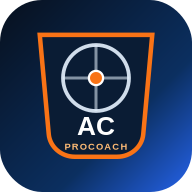
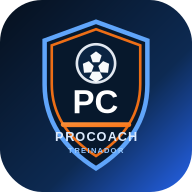
Add files via upload

Changed region(s): [[0.1875, 0.0938, 0.8125, 0.9062]]

diff --git a/atleta.html b/atleta.html
@@ -5,7 +5,7 @@
 <meta name="viewport" content="width=device-width,initial-scale=1,viewport-fit=cover">
 <meta name="theme-color" content="#08111f">
 <meta name="apple-mobile-web-app-capable" content="yes">
-<title>ProCoach Athlete 2.0.7.3 · Training Premium</title>
+<title>ProCoach Athlete 2.0.7.4 · Training Premium</title>
 <link id="manifest-link" rel="manifest" href="./athlete-manifest.webmanifest">
 <link rel="icon" href="./procoach-athlete-icon.svg" type="image/svg+xml">
 <link rel="apple-touch-icon" href="./procoach-athlete-192.png">
@@ -18,7 +18,7 @@
 <style>
 :root{--bg:#07101d;--card:#0e1b33;--card2:#112142;--line:#1d3658;--text:#f8fbff;--muted:#92a7c6;--primary:#3b82f6;--primary2:#2563eb;--ok:#10b981;--warn:#f59e0b;--danger:#ef4444;--glass:rgba(255,255,255,.04)}*{box-sizing:border-box}body{margin:0;background:radial-gradient(circle at 10% 15%,rgba(37,99,235,.20),transparent 24%),radial-gradient(circle at 88% 8%,rgba(16,185,129,.08),transparent 16%),linear-gradient(180deg,#06101d,#081425 40%,#0a1528);color:var(--text);font-family:Inter,-apple-system,BlinkMacSystemFont,"Segoe UI",sans-serif;min-height:100dvh} .app{max-width:720px;margin:auto;min-height:100dvh;padding-bottom:94px}.top{padding:calc(15px + env(safe-area-inset-top)) 18px 14px;background:rgba(7,16,29,.88);position:sticky;top:0;z-index:4;border-bottom:1px solid rgba(255,255,255,.06);backdrop-filter:blur(16px)}.brand{font-size:10px;letter-spacing:.28em;text-transform:uppercase;color:#7fb6ff;font-weight:900}.top h1{font-size:24px;margin:4px 0 1px;letter-spacing:-.02em}.muted{color:var(--muted);font-size:12px}.content{padding:14px 16px 20px}.hero{background:linear-gradient(135deg,#0c2048,#153871 65%,#2563eb);padding:18px;border-radius:24px;margin-bottom:12px;box-shadow:0 20px 42px rgba(2,8,23,.24);border:1px solid rgba(255,255,255,.07)}.hero-row{display:flex;gap:12px;align-items:center}.avatar{width:54px;height:54px;border-radius:18px;overflow:hidden;background:#17253a;display:flex;align-items:center;justify-content:center;font-weight:900;box-shadow:inset 0 1px 0 rgba(255,255,255,.06)}.avatar img{width:100%;height:100%;object-fit:cover}.grid{display:grid;grid-template-columns:repeat(2,1fr);gap:10px}.metric,.card,.today-panel,.action-list,.compact-metric{background:linear-gradient(180deg,rgba(14,27,51,.96),rgba(12,23,43,.96));border:1px solid var(--line);border-radius:22px;box-shadow:0 12px 30px rgba(2,8,23,.14)}.metric,.compact-metric{padding:14px}.metric b,.compact-metric b{font-size:24px;display:block;letter-spacing:-.02em}.label{font-size:9px;color:#8fb0dd;font-weight:900;text-transform:uppercase;letter-spacing:.12em;margin-bottom:6px}.card{padding:14px;margin-top:12px}.card h3{margin:0 0 10px;font-size:15px}.card h4{margin:0 0 7px;font-size:12px}button,.btn,input,select,textarea{font:inherit}button,.btn{border:0;border-radius:15px;min-height:46px;padding:0 14px;font-weight:900;font-size:11px;cursor:pointer;transition:transform .16s ease,box-shadow .16s ease,opacity .16s ease}.primary{background:linear-gradient(135deg,var(--primary2),var(--primary));color:white;box-shadow:0 12px 24px rgba(37,99,235,.22)}.secondary{background:#10213d;color:#dbeafe;border:1px solid #26466f}.success{background:#0f7a58;color:white}.danger{background:#4a1720;color:#fecaca;border:1px solid #71313b}button:hover,.btn:hover{transform:translateY(-1px)}.field{width:100%;min-height:49px;background:#091423;color:white;border:1px solid #29405f;border-radius:15px;padding:11px 12px;margin-top:8px;outline:none}.field:focus{border-color:#60a5fa;box-shadow:0 0 0 4px rgba(96,165,250,.14)}textarea.field{min-height:94px;resize:vertical}.scale{display:grid;grid-template-columns:repeat(6,1fr);gap:6px;margin:8px 0 13px}.scale button{min-height:44px;padding:0;background:#142237;color:#93a4bb;border:1px solid #233852}.scale button.active{background:#2563eb;color:white;border-color:#60a5fa}.video{padding:13px 0;border-top:1px solid rgba(255,255,255,.06)}.video:first-child{border-top:0}.pill{display:inline-flex;padding:6px 9px;border-radius:999px;background:#17253a;color:#a9bad0;font-size:8px;font-weight:900;text-transform:uppercase;border:1px solid rgba(255,255,255,.05)}.pill.ok{background:rgba(16,185,129,.13);color:#6ee7b7}.pill.warn{background:rgba(245,158,11,.13);color:#fbbf24}.pill.danger{background:rgba(239,68,68,.14);color:#fca5a5}.pill.sent{background:rgba(59,130,246,.12);color:#93c5fd}.pill.seen{background:rgba(148,163,184,.12);color:#cbd5e1}.pill.answer{background:rgba(16,185,129,.13);color:#6ee7b7}.row{display:flex;gap:9px;align-items:center}.grow{flex:1}.nav{position:fixed;bottom:0;left:0;right:0;max-width:720px;margin:auto;background:rgba(8,17,31,.96);border-top:1px solid rgba(255,255,255,.06);display:grid;grid-template-columns:repeat(9,1fr);padding:8px 8px calc(8px + env(safe-area-inset-bottom));z-index:5;backdrop-filter:blur(16px)}.nav button{background:transparent;color:#71849d;padding:5px 2px;min-height:55px;font-size:8px;text-transform:uppercase}.nav button.active{color:#7fb6ff}.nav .ico{font-size:17px;display:block;margin-bottom:3px}.notice{padding:12px 13px;border-radius:16px;background:#17253a;color:#b7c5d7;font-size:11px;margin-bottom:12px;border:1px solid rgba(255,255,255,.05)}.notice.error{background:#3b1720;color:#fecaca}.notice.ok{background:#0d3028;color:#a7f3d0}.notice.warn{background:#3d2f0e;color:#fde68a}.empty{text-align:center;padding:35px 15px;color:#6f8299;font-size:12px}.daily-action{margin:0 0 14px;background:linear-gradient(135deg,#0d285d,#18438c);border:1px solid rgba(147,197,253,.28);border-radius:22px;padding:16px;box-shadow:0 18px 36px rgba(37,99,235,.18)}.daily-action.done{background:linear-gradient(135deg,#0f766e,#047857)}.daily-action.alert{background:linear-gradient(135deg,#9a3412,#b45309)}.daily-action h2{font-size:18px;margin:0 0 5px}.daily-action p{font-size:11px;color:#dbeafe;margin:0 0 12px;line-height:1.45}.daily-action button{width:100%;background:white;color:#0f2f6f;min-height:48px;font-size:12px}.today-panel{padding:6px 14px;margin-bottom:10px}.today-head{display:flex;align-items:center;justify-content:space-between;padding:10px 0 6px}.today-head h2{font-size:16px;margin:0}.today-row{display:grid;grid-template-columns:42px 1fr auto;gap:10px;align-items:center;padding:12px 0;border-top:1px solid rgba(255,255,255,.06)}.today-row:first-of-type{border-top:0}.today-icon{width:40px;height:40px;border-radius:14px;background:linear-gradient(180deg,#112342,#0f1b33);display:flex;align-items:center;justify-content:center;font-size:17px;border:1px solid rgba(255,255,255,.06)}.today-main b{font-size:12px;display:block}.today-main small{display:block;color:var(--muted);font-size:9px;margin-top:2px}.status-badge{display:inline-flex;align-items:center;justify-content:center;min-height:30px;padding:0 10px;border-radius:999px;font-size:8px;font-weight:900;text-transform:uppercase;background:#17253a;color:#a9bad0;border:1px solid #29405f}.status-badge.ok{background:rgba(16,185,129,.12);color:#6ee7b7;border-color:rgba(16,185,129,.25)}.status-badge.warn{background:rgba(245,158,11,.12);color:#fbbf24;border-color:rgba(245,158,11,.25)}.status-badge.info{background:rgba(59,130,246,.12);color:#93c5fd;border-color:rgba(59,130,246,.25)}.compact-metrics{display:grid;grid-template-columns:repeat(3,1fr);gap:10px;margin:10px 0}.action-list{padding:14px;margin-top:10px}.action-card{padding:12px 0;border-top:1px solid rgba(255,255,255,.06)}.action-card:first-of-type{border-top:0}.action-title{font-weight:900;font-size:12px}.action-meta{font-size:9px;color:var(--muted);margin-top:3px}.action-note{font-size:11px;line-height:1.45;color:#c7d2e0;margin-top:7px}.action-buttons{display:flex;gap:6px;flex-wrap:wrap;margin-top:8px}.action-buttons button,.action-buttons .btn{min-height:34px;padding:0 10px;font-size:8px}.pain-list-box{max-height:236px;overflow:auto;border:1px solid #29405f;background:#091423;border-radius:15px;margin:9px 0 12px;padding:4px}.pain-option{display:flex;align-items:center;gap:10px;padding:10px 9px;border-bottom:1px solid #172840;font-size:11px;color:#cbd5e1;cursor:pointer}.pain-option:last-child{border-bottom:0}.pain-option input{width:18px;height:18px;accent-color:#2563eb;flex:none}.pain-option:has(input:checked){background:rgba(37,99,235,.11);color:#fff}.pain-summary{display:flex;align-items:center;justify-content:space-between;gap:8px;margin:8px 0 4px}.pain-summary small{color:var(--muted);font-size:9px}.pain-count{background:#17253a;border:1px solid #29405f;border-radius:999px;padding:4px 8px;font-size:8px;color:#93c5fd;font-weight:900}.install-bar{display:none;margin:12px 16px 0;padding:12px;border:1px solid #2b4364;border-radius:18px;background:rgba(15,27,45,.97);box-shadow:0 12px 32px rgba(0,0,0,.22)}.install-bar.show{display:block}.install-bar .install-row{display:flex;gap:10px;align-items:center}.install-bar .install-copy{flex:1}.install-bar b{font-size:12px}.install-bar small{display:block;color:var(--muted);font-size:9px;line-height:1.4;margin-top:2px}.install-bar button{min-height:42px;padding:0 12px}.install-help{display:none;margin-top:9px;padding-top:9px;border-top:1px solid rgba(255,255,255,.06);font-size:10px;color:#cbd5e1;line-height:1.45}.install-help.show{display:block}.divider{height:1px;background:rgba(255,255,255,.06);margin:12px 0}.mini-actions{display:flex;gap:7px;flex-wrap:wrap}.mini-actions button{min-height:36px;padding:0 10px;font-size:9px}.section-title{font-size:11px;font-weight:900;margin:14px 0 5px;color:#dbeafe}.status-line{font-size:10px;color:#cbd5e1;line-height:1.45}.notification-button{width:100%;margin-top:8px}.availability{display:grid;grid-template-columns:repeat(2,1fr);gap:6px;margin:8px 0 12px}.availability button{background:#142237;color:#a8b8ca;border:1px solid #263b56;min-height:42px;padding:5px}.availability button.active{background:#0f766e;color:#fff;border-color:#34d399}.week-toolbar{display:flex;align-items:center;justify-content:space-between;gap:10px;margin-bottom:10px}.week-list{display:flex;flex-direction:column;gap:10px}.week-day,.week-item{background:linear-gradient(180deg,rgba(14,27,51,.96),rgba(12,23,43,.96));border:1px solid var(--line);border-radius:20px;box-shadow:0 12px 30px rgba(2,8,23,.14)}.week-day{padding:14px}.week-day.today{border-color:#3563a6;box-shadow:0 0 0 1px rgba(59,130,246,.15),0 14px 34px rgba(2,8,23,.18)}.week-date{display:flex;align-items:center;justify-content:space-between;gap:10px;margin-bottom:10px}.week-date b{font-size:13px}.week-date span{font-size:9px;color:var(--muted)}.week-item{padding:12px;margin-top:8px}.week-item-title{font-size:12px;font-weight:900}.week-item-meta{font-size:9px;color:var(--muted);margin-top:4px}.week-empty{padding:18px 8px;text-align:center;color:#6f8299;font-size:11px}.priority-badge{display:inline-flex;padding:5px 8px;border-radius:999px;font-size:8px;font-weight:900;text-transform:uppercase;border:1px solid rgba(255,255,255,.06)}.priority-badge.normal{background:rgba(59,130,246,.12);color:#93c5fd}.priority-badge.important{background:rgba(245,158,11,.12);color:#fbbf24}.priority-badge.required{background:rgba(239,68,68,.12);color:#fca5a5}.confirm-grid{display:grid;grid-template-columns:1fr;gap:7px;margin-top:8px}.overdue-card{box-shadow:0 0 0 1px rgba(245,158,11,.2),0 12px 30px rgba(2,8,23,.14)}@media(min-width:540px){.grid.three{grid-template-columns:repeat(3,1fr)}.confirm-grid{grid-template-columns:repeat(3,1fr)}}@media(max-width:560px){.top h1{font-size:21px}.grid,.compact-metrics{grid-template-columns:1fr 1fr}.nav{grid-template-columns:repeat(5,1fr);overflow-x:auto;white-space:nowrap}.nav button{min-width:68px}.today-row{grid-template-columns:38px 1fr}.today-row .status-badge{grid-column:2;justify-self:start;margin-top:4px}}
 
-/* ProCoach Athlete 2.0.7.3 Stable Access + Match Day — token athletePortal / procoachoficial */
+/* ProCoach Athlete 2.0.7.4 Stable Access + Match Day — token athletePortal / procoachoficial */
 /* ProCoach Athlete V6.5 Premium */
 .ath-home-kicker{font-size:9px;letter-spacing:.18em;text-transform:uppercase;color:#60a5fa;font-weight:900;margin:2px 0 10px}.ath-quick-grid{display:grid;grid-template-columns:repeat(2,1fr);gap:9px;margin:10px 0}.ath-quick-card{min-height:82px;padding:13px;border-radius:18px;background:linear-gradient(135deg,#0d1d37,#11294f);border:1px solid #24456e;display:flex;flex-direction:column;justify-content:space-between;box-shadow:0 12px 28px rgba(2,8,23,.16)}.ath-quick-card b{font-size:18px}.ath-quick-card small{font-size:8px;color:#8fa5c6;text-transform:uppercase;font-weight:900;letter-spacing:.08em}.ath-quick-card.green{border-color:#0f9f78}.ath-quick-card.blue{border-color:#2f80ed}.ath-quick-card.orange{border-color:#e86811}.ath-quick-card.cyan{border-color:#0899b2}.nav{scrollbar-width:none}.nav::-webkit-scrollbar{display:none}.nav button{border-radius:12px}.nav button.active{background:rgba(59,130,246,.10)}.card,.today-panel,.action-list,.week-day,.week-item{transition:transform .16s ease,box-shadow .16s ease}.card:hover,.week-day:hover{transform:translateY(-1px);box-shadow:0 17px 36px rgba(2,8,23,.20)}
 @media(max-width:560px){.ath-quick-grid{grid-template-columns:repeat(2,1fr)}.ath-quick-card{min-height:74px;padding:11px}.ath-quick-card b{font-size:16px}}
@@ -49,7 +49,7 @@
 </style>
 
 </head>
-<body><div class="app"><header class="top"><div class="brand">ProCoach Athlete 2.0.7.3</div><h1 id="title">Seu desempenho, em um só lugar</h1><div class="muted" id="subtitle">Conectando ao seu perfil…</div></header><main class="content" id="content"></main><nav class="nav" id="nav"></nav></div>
+<body><div class="app"><header class="top"><div class="brand">ProCoach Athlete 2.0.7.4</div><h1 id="title">Seu desempenho, em um só lugar</h1><div class="muted" id="subtitle">Conectando ao seu perfil…</div></header><main class="content" id="content"></main><nav class="nav" id="nav"></nav></div>
 <script>
 const firebaseConfig={apiKey:"AIzaSyBURvWmrRe-q-l1h2XKaQepeRQoNcmi7nk",authDomain:"procoachoficial.firebaseapp.com",projectId:"procoachoficial",storageBucket:"procoachoficial.firebasestorage.app",messagingSenderId:"128403842399",appId:"1:128403842399:web:c54259e2b6a5622fb942ea"};
 try{if(!firebase.apps.length)firebase.initializeApp(firebaseConfig)}catch(e){};
@@ -143,6 +143,6 @@ if(tab==='docs'){const f=$('enable-fcm'),i=$('install-app-settings');if(f)f.oncl
 if(tab==='video'){document.querySelectorAll('.open-video').forEach(b=>b.onclick=()=>{const id=b.dataset.id,url=b.dataset.url,prev=obj(responses().video)[id]||{};const next={...responses(),video:{...obj(responses().video),[id]:{...prev,status:prev.status&&prev.status!=='Enviado'?prev.status:'Visto',at:new Date().toISOString()}}};patchResponses(next);if(url)window.open(url,'_blank','noopener')});document.querySelectorAll('.video-understood').forEach(b=>b.onclick=()=>{const id=b.dataset.id;const next={...responses(),video:{...obj(responses().video),[id]:{...obj(responses().video)[id],status:'Entendido',reaction:'Entendi',at:new Date().toISOString()}}};patchResponses(next)});document.querySelectorAll('.video-doubt').forEach(b=>b.onclick=()=>{const id=b.dataset.id;const next={...responses(),video:{...obj(responses().video),[id]:{...obj(responses().video)[id],status:'Dúvida',reaction:'Tenho dúvida',at:new Date().toISOString()}}};patchResponses(next)});document.querySelectorAll('.save-video').forEach(b=>b.onclick=()=>{const id=b.dataset.id,feedback=document.querySelector(`.video-feedback[data-id="${id}"]`)?.value||'';const previous=obj(responses().video)[id]||{};const next={...responses(),video:{...obj(responses().video),[id]:{...previous,status:'Respondido',feedback,at:new Date().toISOString()}}};patchResponses(next)})}}
 function accessError(error){const code=String(error?.code||'');if(!navigator.onLine)return'Sem conexão. Reconecte-se à internet ou abra um perfil já ativado neste aparelho.';if(code.includes('operation-not-allowed'))return'O acesso de atletas ainda não foi habilitado pela comissão.';if(code.includes('permission-denied'))return'O perfil existe, mas a permissão de acesso precisa ser liberada pela comissão.';if(code.includes('unavailable'))return'O servidor está temporariamente indisponível. Tente novamente em alguns instantes.';return'Não foi possível validar este código. Confirme se o perfil foi publicado novamente pela comissão.'}
 async function start(){if(!token){status='activation';render();return}if(liveSubscription){liveSubscription();liveSubscription=null}const cached=loadCache();if(cached?.active!==false){data=cached;status='ready';render()}try{if(!db)throw new Error('Banco de dados indisponível');if(auth&&!auth.currentUser)await auth.signInAnonymously();liveSubscription=db.collection('athletePortal').doc(token).onSnapshot(doc=>{if(!doc.exists||doc.data()?.active===false){if(!data){errorReason='Este código não está ativo. No ProCoach, publique novamente o perfil deste atleta.';status='error';render()}return}data={...doc.data(),responses:doc.data().responses||data?.responses||{}};errorReason='';status='ready';saveCache();render();setTimeout(()=>maybeNotify(false),400)},error=>{if(!data){errorReason=accessError(error);status='error';render()}})}catch(error){if(!data){errorReason=accessError(error);status='error';render()}}}
-try{const startUrl=token?'./atleta.html?token='+encodeURIComponent(token):'./atleta.html';const manifest={name:'ProCoach Athlete 2.0.7.3',short_name:'ProCoach Athlete',start_url:startUrl,scope:'./',display:'standalone',background_color:'#07101d',theme_color:'#07101d',icons:[{src:'./procoach-athlete-icon.svg',sizes:'any',type:'image/svg+xml'},{src:'./procoach-athlete-192.png',sizes:'192x192',type:'image/png'},{src:'./procoach-athlete-512.png',sizes:'512x512',type:'image/png'}]};const blob=new Blob([JSON.stringify(manifest)],{type:'application/manifest+json'});$('manifest-link').href=URL.createObjectURL(blob)}catch(e){}
-if('serviceWorker'in navigator&&location.protocol.startsWith('http'))navigator.serviceWorker.register('./service-worker.js?v=2073',{updateViaCache:'none'}).then(reg=>reg.update()).catch(()=>{});window.addEventListener('beforeinstallprompt',e=>{e.preventDefault();installPrompt=e;updateInstallUI()});window.addEventListener('appinstalled',()=>{installPrompt=null;updateInstallUI();notice('ProCoach Athlete instalado na Tela Inicial.','ok')});window.addEventListener('online',()=>render());window.addEventListener('offline',()=>render());document.addEventListener('DOMContentLoaded',()=>updateInstallUI());start();
+try{const startUrl=token?'./atleta.html?token='+encodeURIComponent(token):'./atleta.html';const manifest={name:'ProCoach Athlete 2.0.7.4',short_name:'ProCoach Athlete',start_url:startUrl,scope:'./',display:'standalone',background_color:'#07101d',theme_color:'#07101d',icons:[{src:'./procoach-athlete-icon.svg',sizes:'any',type:'image/svg+xml'},{src:'./procoach-athlete-192.png',sizes:'192x192',type:'image/png'},{src:'./procoach-athlete-512.png',sizes:'512x512',type:'image/png'}]};const blob=new Blob([JSON.stringify(manifest)],{type:'application/manifest+json'});$('manifest-link').href=URL.createObjectURL(blob)}catch(e){}
+if('serviceWorker'in navigator&&location.protocol.startsWith('http'))navigator.serviceWorker.register('./service-worker.js?v=2074',{updateViaCache:'none'}).then(reg=>reg.update()).catch(()=>{});window.addEventListener('beforeinstallprompt',e=>{e.preventDefault();installPrompt=e;updateInstallUI()});window.addEventListener('appinstalled',()=>{installPrompt=null;updateInstallUI();notice('ProCoach Athlete instalado na Tela Inicial.','ok')});window.addEventListener('online',()=>render());window.addEventListener('offline',()=>render());document.addEventListener('DOMContentLoaded',()=>updateInstallUI());start();
 </script></body></html>

diff --git a/auxiliar.html b/auxiliar.html
@@ -9,7 +9,7 @@
 <link rel="manifest" href="./assistant-manifest.webmanifest">
 <link rel="icon" href="./procoach-assistant-icon.svg" type="image/svg+xml">
 <link rel="apple-touch-icon" href="./procoach-assistant-192.png">
-<title>ProCoach Auxiliar 2.0.7.3</title>
+<title>ProCoach Auxiliar 2.0.7.4</title>
 <script src="https://www.gstatic.com/firebasejs/10.8.1/firebase-app-compat.js"></script>
 <script src="https://www.gstatic.com/firebasejs/10.8.1/firebase-auth-compat.js"></script>
 <script src="https://www.gstatic.com/firebasejs/10.8.1/firebase-firestore-compat.js"></script>
@@ -34,14 +34,19 @@ const PC_ACTIVE_TEAM_KEY='procoach_active_team_v6',PC_TEAM_REGISTRY_KEY='pc_mult
 const PC_GLOBAL_KEYS=new Set([PC_TEAM_REGISTRY_KEY,'pc_dark_mode','pc_club_movements_v61','pc_club_season_archives_v61','pc_club_access_v61']);
 const $=id=>document.getElementById(id),today=()=>new Date().toISOString().slice(0,10),ensureArray=v=>Array.isArray(v)?v:(v&&typeof v==='object'?Object.values(v):[]),parse=(raw,fallback)=>{try{return raw?JSON.parse(raw):fallback}catch(e){return fallback}};
 let activeTab='home',installPrompt=null,cloudBusy=false;
+const AUX_PENDING_KEY='procoach_aux_pending_sync_v2074';
+const pendingQueue=()=>parse(localStorage.getItem(AUX_PENDING_KEY),[])||[];
+const savePending=q=>localStorage.setItem(AUX_PENDING_KEY,JSON.stringify(q));
+function queueSync(pk,value){const q=pendingQueue().filter(x=>x.pk!==pk);q.push({pk,value,at:new Date().toISOString()});savePending(q);setSync('pending');}
+async function flushPending(){if(!auth.currentUser||!navigator.onLine)return false;const q=pendingQueue();if(!q.length)return true;setSync('syncing');try{for(const item of q){await db.collection('coachData').doc(auth.currentUser.uid).set({[item.pk]:item.value,lastUpdated:firebase.firestore.FieldValue.serverTimestamp()},{merge:true});}savePending([]);setSync('ok');return true}catch(e){setSync('pending');return false}}
 const activeTeamId=()=>localStorage.getItem(PC_ACTIVE_TEAM_KEY)||'team-main';
 const physicalKey=(key,teamId=activeTeamId())=>(!String(key).startsWith('pc_')||PC_GLOBAL_KEYS.has(key)||teamId==='team-main')?key:`pc_team_${teamId}__${key}`;
 const read=(key,fallback)=>parse(localStorage.getItem(physicalKey(key)),fallback);
 const notify=(text)=>{const d=document.createElement('div');d.className='toast';d.textContent=text;document.body.appendChild(d);setTimeout(()=>d.remove(),1800)};
 const fmt=d=>{if(!d)return'—';const p=String(d).split('-');return p.length===3?`${p[2]}/${p[1]}`:d};
-async function write(key,value){const pk=physicalKey(key);localStorage.setItem(pk,JSON.stringify(value));if(auth.currentUser&&navigator.onLine){await db.collection('coachData').doc(auth.currentUser.uid).set({[pk]:JSON.stringify(value),lastUpdated:firebase.firestore.FieldValue.serverTimestamp()},{merge:true});}render();}
-async function cloudLoad(){if(!auth.currentUser||cloudBusy)return;cloudBusy=true;setSync('syncing');try{const doc=await db.collection('coachData').doc(auth.currentUser.uid).get();if(doc.exists){const data=doc.data();Object.keys(data).forEach(k=>{if(k.startsWith('pc_'))localStorage.setItem(k,typeof data[k]==='string'?data[k]:JSON.stringify(data[k]))});}setSync('ok');renderTeamSelect();render();}catch(e){setSync('off');}finally{cloudBusy=false}}
-function setSync(state){const b=$('syncBadge');if(!b)return;b.classList.toggle('off',state!=='ok');b.textContent=state==='syncing'?'↻ SINCRONIZANDO':state==='ok'?'● SINCRONIZADO':'● MODO LOCAL';}
+async function write(key,value){const pk=physicalKey(key),raw=JSON.stringify(value);localStorage.setItem(pk,raw);if(auth.currentUser&&navigator.onLine){try{await db.collection('coachData').doc(auth.currentUser.uid).set({[pk]:raw,lastUpdated:firebase.firestore.FieldValue.serverTimestamp()},{merge:true});const q=pendingQueue().filter(x=>x.pk!==pk);savePending(q);setSync(q.length?'pending':'ok')}catch(e){queueSync(pk,raw)}}else{queueSync(pk,raw)}render();}
+async function cloudLoad(){if(!auth.currentUser||cloudBusy)return;cloudBusy=true;setSync('syncing');try{await flushPending();const doc=await db.collection('coachData').doc(auth.currentUser.uid).get();if(doc.exists){const data=doc.data();Object.keys(data).forEach(k=>{if(k.startsWith('pc_'))localStorage.setItem(k,typeof data[k]==='string'?data[k]:JSON.stringify(data[k]))});}setSync(pendingQueue().length?'pending':'ok');renderTeamSelect();render();}catch(e){setSync(navigator.onLine?'pending':'off');}finally{cloudBusy=false}}
+function setSync(state){const b=$('syncBadge');if(!b)return;const n=pendingQueue().length;b.classList.toggle('off',state!=='ok');b.textContent=state==='syncing'?'↻ SINCRONIZANDO':state==='ok'?'● SINCRONIZADO':state==='pending'?`● ${n||1} PENDENTE(S)`:'● MODO LOCAL';}
 function registry(){return read(PC_TEAM_REGISTRY_KEY,{teams:[{id:'team-main',name:'Equipe Principal',category:'Principal'}]})}
 function team(){return ensureArray(registry().teams).find(t=>t.id===activeTeamId())||{id:'team-main',name:read('pc_team_name','Equipe Principal'),category:'Principal'}}
 function teamName(){return read('pc_team_name',team().name||'Equipe Principal')}
@@ -66,15 +71,15 @@ function teamScreen(){const rec=currentSession(),att=rec.attendance||{};return`<
 function matchCard(){const m=nextMatch();if(!m||(!m.date&&!m.opponent))return'';return`<section class="card"><div class="cardtitle"><h2>Próximo jogo</h2><span class="tag">MATCH DAY</span></div><div class="match"><span>${fmt(m.date||today())} · ${esc(m.time||'')}</span><b>${esc(teamName())} × ${esc(m.opponent||'Adversário')}</b><div class="muted">${esc(m.location||m.venue||'Local a definir')} ${m.system?`· Sistema ${esc(m.system)}`:''}</div></div></section>`}
 function matchScreen(){const m=nextMatch(),callups=ensureArray(read('pc_callups_v1',[])).filter(x=>x.date===m.date||x.date===today());return`<section class="card"><div class="cardtitle"><div><div class="eyebrow">JOGO & LOGÍSTICA</div><h2>${m.opponent?esc(m.opponent):'Sem jogo programado'}</h2></div><span class="tag">${callups.length?callups.length+' convocação(ões)':'GAME CENTER'}</span></div>${matchCard()||'<div class="empty">Nenhum jogo encontrado.</div>'}</section>`}
 function recordScreen(){const r=currentSession(),c=r.assistantChecklist||{};return`<section class="card"><div class="cardtitle"><div><div class="eyebrow">REGISTRO DO AUXILIAR</div><h2>Checklist e observações</h2></div><span class="tag">SYNC</span></div><div class="checkgrid"><label class="checkitem"><input id="cMaterials" type="checkbox" ${c.materials?'checked':''}> Materiais separados</label><label class="checkitem"><input id="cField" type="checkbox" ${c.field?'checked':''}> Campo preparado</label><label class="checkitem"><input id="cEquipment" type="checkbox" ${c.equipment?'checked':''}> Equipamentos OK</label><label class="checkitem"><input id="cVideo" type="checkbox" ${c.video?'checked':''}> Vídeo / tablet OK</label><label class="checkitem"><input id="cMeeting" type="checkbox" ${c.meeting?'checked':''}> Reunião alinhada</label></div><textarea id="assistantNote" class="field note" placeholder="Observações do auxiliar: campo, clima, material, comportamento, ajustes da sessão...">${esc(r.assistantNote||'')}</textarea><button class="save" onclick="saveRecord()">SALVAR E SINCRONIZAR</button><div class="muted" style="margin-top:8px">Esta nota também aparece na ficha de treino do ProCoach principal após a sincronização.</div></section>`}
-function render(){if($('appView').classList.contains('hidden'))return;const map={home,training,team:teamScreen,match:matchScreen,record:recordScreen};$('screen').innerHTML=(map[activeTab]||home)();document.querySelectorAll('#nav button').forEach(b=>b.classList.toggle('active',b.dataset.tab===activeTab));setSync(navigator.onLine?'ok':'off')}
+function render(){if($('appView').classList.contains('hidden'))return;const map={home,training,team:teamScreen,match:matchScreen,record:recordScreen};$('screen').innerHTML=(map[activeTab]||home)();document.querySelectorAll('#nav button').forEach(b=>b.classList.toggle('active',b.dataset.tab===activeTab));setSync(!navigator.onLine?'off':pendingQueue().length?'pending':'ok')}
 $('nav').addEventListener('click',e=>{const b=e.target.closest('button[data-tab]');if(!b)return;activeTab=b.dataset.tab;render()});
 $('teamSelect').addEventListener('change',e=>{localStorage.setItem(PC_ACTIVE_TEAM_KEY,e.target.value);render()});
 $('refreshBtn').onclick=cloudLoad;$('logoutBtn').onclick=()=>auth.signOut();
 $('loginBtn').onclick=async()=>{const email=$('email').value.trim(),pass=$('password').value;$('authErr').textContent='';try{await auth.signInWithEmailAndPassword(email,pass)}catch(e){$('authErr').textContent='Não foi possível entrar. Confira e-mail e senha.'}};
-window.addEventListener('online',()=>{setSync('syncing');cloudLoad()});window.addEventListener('offline',()=>setSync('off'));
+window.addEventListener('online',async()=>{setSync('syncing');await flushPending();cloudLoad()});window.addEventListener('offline',()=>setSync('off'));
 auth.onAuthStateChanged(async user=>{if(user){$('authView').classList.add('hidden');$('appView').classList.remove('hidden');await cloudLoad();renderTeamSelect();render()}else{$('appView').classList.add('hidden');$('authView').classList.remove('hidden')}});
 window.addEventListener('beforeinstallprompt',e=>{e.preventDefault();installPrompt=e;$('installAuth').classList.add('show')});$('installAuth').onclick=async()=>{if(!installPrompt)return;installPrompt.prompt();await installPrompt.userChoice;installPrompt=null;$('installAuth').classList.remove('show')};
-if('serviceWorker'in navigator&&location.protocol.startsWith('http'))window.addEventListener('load',()=>navigator.serviceWorker.register('./service-worker.js?v=2073',{updateViaCache:'none'}).then(r=>r.update()).catch(()=>{}));
+if('serviceWorker'in navigator&&location.protocol.startsWith('http'))window.addEventListener('load',()=>navigator.serviceWorker.register('./service-worker.js?v=2074',{updateViaCache:'none'}).then(r=>r.update()).catch(()=>{}));
 </script>
 </body>
 </html>

diff --git a/index.html b/index.html
@@ -4,12 +4,14 @@
     <meta charset="UTF-8">
     <meta name="viewport" content="width=device-width, initial-scale=1.0, maximum-scale=1.0, user-scalable=no">
     <meta name="theme-color" content="#0b1220">
+    <meta name="application-name" content="ProCoach Treinador">
+    <meta name="apple-mobile-web-app-title" content="ProCoach">
     <meta name="apple-mobile-web-app-capable" content="yes">
     <meta name="apple-mobile-web-app-status-bar-style" content="black-translucent">
     <link rel="manifest" href="./manifest.webmanifest">
     <link rel="icon" href="./procoach-main-icon.svg" type="image/svg+xml">
     <link rel="apple-touch-icon" href="./procoach-main-192.png">
-    <title>ProCoach 2.0.7.3 - Auxiliar & Sync</title>
+    <title>ProCoach 2.0.7.4 - Auxiliar & Sync</title>
     
     <script src="https://cdn.tailwindcss.com"></script>
     <script crossorigin src="https://unpkg.com/react@18/umd/react.development.js"></script>
@@ -1195,12 +1197,12 @@ const PremiumTrainingPlanView = ({ drills,setDrills,header,setHeader,logo,themeC
     const applyDrills=next=>{setDrills(next);if(syncMicrocycle)syncMicrocycle(next)};
     const updateDrill=(i,f,v)=>{const n=[...ds];n[i]={...n[i],[f]:v};applyDrills(n)};
     const updateHeader=patch=>setHeader(current=>({...current,...patch}));
-    const updateRating=(i,value)=>{const next={...ratings,[i]:value};setRatings(next);setHistory({...history,[sessionDate]:{...record,drills:ds,header,attendance,rpe,ratings:next,actualDuration:actual,review,signature,premiumPlanVersion:'2.0.7.3',updatedAt:new Date().toISOString()}})};
+    const updateRating=(i,value)=>{const next={...ratings,[i]:value};setRatings(next);setHistory({...history,[sessionDate]:{...record,drills:ds,header,attendance,rpe,ratings:next,actualDuration:actual,review,signature,premiumPlanVersion:'2.0.7.4',updatedAt:new Date().toISOString()}})};
     const moveDrill=(index,dir)=>{const next=[...ds],target=index+dir;if(target<0||target>=next.length)return;[next[index],next[target]]=[next[target],next[index]];applyDrills(next)};
     const newExercise=block=>({id:`ex_${Date.now()}_${Math.random().toString(36).slice(2,6)}`,name:'Novo exercício',block:block||blocks[0],method:trainingType==='Academia'?'Força':'Técnico',time:'10',sets:'3',reps:'10',cadence:'Controlada',rest:'45 s',pse:'5',load:'',dim:'',desc:'',tips:'',variants:'',image:'',video:''});
     const addExercise=block=>applyDrills([...ds,newExercise(block)]);
     const duplicateDrill=i=>{const d=ds[i];if(!d)return;const next={...d,id:`ex_${Date.now()}_${Math.random().toString(36).slice(2,6)}`,name:`${d.name||'Exercício'} · cópia`};applyDrills([...ds.slice(0,i+1),next,...ds.slice(i+1)])};
-    const save=()=>{const savedHeader={...header,trainingType,pseTarget:header.pseTarget||'',coach:header.coach||'',category:header.category||''};setHistory({...history,[sessionDate]:{...record,drills:ds,header:savedHeader,attendance,rpe,ratings,actualDuration:actual,review,signature,premiumPlanVersion:'2.0.7.3',updatedAt:new Date().toISOString()}});if(syncMicrocycle)syncMicrocycle(ds);setStatus('Plano de treino salvo ✓');setTimeout(()=>setStatus(''),2200)};
+    const save=()=>{const savedHeader={...header,trainingType,pseTarget:header.pseTarget||'',coach:header.coach||'',category:header.category||''};setHistory({...history,[sessionDate]:{...record,drills:ds,header:savedHeader,attendance,rpe,ratings,actualDuration:actual,review,signature,premiumPlanVersion:'2.0.7.4',updatedAt:new Date().toISOString()}});if(syncMicrocycle)syncMicrocycle(ds);setStatus('Plano de treino salvo ✓');setTimeout(()=>setStatus(''),2200)};
     const saveTemplate=()=>{const name=prompt('Nome do modelo de treino:',`${trainingType} · ${header.objective||'Modelo'}`);if(!name)return;const item={id:`tpl_${Date.now()}`,name,trainingType,header:{objective:header.objective||'',competition:header.competition||'',category:header.category||'',local:header.local||'',time:header.time||'',dur:header.dur||'',pseTarget:header.pseTarget||'',coach:header.coach||'',notes:header.notes||''},drills:ds.map((d,i)=>({...d,id:`tplx_${Date.now()}_${i}`})),createdAt:new Date().toISOString()};setTemplates(current=>[item,...ensureArray(current)]);setStatus(`Modelo “${name}” salvo ✓`);setTimeout(()=>setStatus(''),2500)};
     const loadTemplate=id=>{const item=ensureArray(templates).find(x=>String(x.id)===String(id));if(!item)return;updateHeader({...item.header,trainingType:item.trainingType||'Campo'});applyDrills(ensureArray(item.drills).map((d,i)=>({...d,id:`ex_${Date.now()}_${i}`})));setStatus(`Modelo “${item.name}” aplicado.`);setTimeout(()=>setStatus(''),2200)};
     const deleteTemplate=id=>{const item=ensureArray(templates).find(x=>String(x.id)===String(id));if(!item||!confirm(`Excluir o modelo “${item.name}”?`))return;setTemplates(current=>ensureArray(current).filter(x=>String(x.id)!==String(id)))};
@@ -1214,7 +1216,7 @@ const PremiumTrainingPlanView = ({ drills,setDrills,header,setHeader,logo,themeC
         category:header.category||trainingType,
         priority:'Importante',
         premiumPlan:true,
-        premiumPlanVersion:'2.0.7.3',
+        premiumPlanVersion:'2.0.7.4',
         objective:header.objective||'',
         location:header.local||'',
         startTime:header.time||'',
@@ -2095,7 +2097,7 @@ const App = ({ user }) => {
             <div className="flex flex-1 min-h-0">
                 <aside className="app-sidebar hidden md:flex flex-col shrink-0 no-print shadow-xl z-30">
                     <div className="sidebar-brand p-4 border-b border-white/10">
-                        <div className="flex items-center gap-3 mb-3"><div className="w-11 h-11 bg-white/10 rounded-xl border border-white/10 flex items-center justify-center overflow-hidden shrink-0">{teamLogo ? <img src={teamLogo} className="w-full h-full object-contain" /> : <Icon name="users" className="opacity-60"/>}</div><div className="min-w-0"><div className="font-black text-sm uppercase truncate">{teamName}</div><div className="text-[10px] text-slate-400 mt-0.5">PROCOACH <span className="opacity-60">2.0.7.3 AUXILIAR & SYNC</span></div></div></div>
+                        <div className="flex items-center gap-3 mb-3"><div className="w-11 h-11 bg-white/10 rounded-xl border border-white/10 flex items-center justify-center overflow-hidden shrink-0">{teamLogo ? <img src={teamLogo} className="w-full h-full object-contain" /> : <Icon name="users" className="opacity-60"/>}</div><div className="min-w-0"><div className="font-black text-sm uppercase truncate">{teamName}</div><div className="text-[10px] text-slate-400 mt-0.5">PROCOACH <span className="opacity-60">2.0.7.4 AUXILIAR & SYNC</span></div></div></div>
                         <TeamSwitcher registry={teamRegistry} activeTeamId={activeTeamId} onSwitch={switchTeam} onManage={openTeamManager}/>
                     </div>
                     <nav className="flex-1 p-3 space-y-1 overflow-y-auto">
@@ -2199,7 +2201,7 @@ const MainControl = () => {
 
 const root = ReactDOM.createRoot(document.getElementById('root'));
 root.render(<ErrorBoundary><MainControl /></ErrorBoundary>);
-if ('serviceWorker' in navigator && location.protocol.startsWith('http')) window.addEventListener('load', () => navigator.serviceWorker.register('./service-worker.js?v=2073',{updateViaCache:'none'}).then(reg=>reg.update()).catch(()=>{}));
+if ('serviceWorker' in navigator && location.protocol.startsWith('http')) window.addEventListener('load', () => navigator.serviceWorker.register('./service-worker.js?v=2074',{updateViaCache:'none'}).then(reg=>reg.update()).catch(()=>{}));
 </script>
 </body>
 

diff --git a/service-worker.js b/service-worker.js
@@ -1,7 +1,7 @@
-const CACHE_NAME='procoach-2073-aux-sync-icons';
-const APP_SHELL=['./','./index.html','./atleta.html','./auxiliar.html','./manifest.webmanifest','./athlete-manifest.webmanifest','./assistant-manifest.webmanifest','./procoach-main-icon.svg','./procoach-assistant-icon.svg','./procoach-athlete-icon.svg','./procoach-main-192.png','./procoach-main-512.png','./procoach-assistant-192.png','./procoach-assistant-512.png','./procoach-athlete-192.png','./procoach-athlete-512.png'];
+const CACHE_NAME='procoach-2074-pwa-logos-sync-final';
+const APP_SHELL=['./','./index.html','./atleta.html','./auxiliar.html','./manifest.webmanifest','./athlete-manifest.webmanifest','./assistant-manifest.webmanifest','./procoach-fcm-config.js','./procoach-main-icon.svg','./procoach-assistant-icon.svg','./procoach-athlete-icon.svg','./procoach-main-192.png','./procoach-main-512.png','./procoach-assistant-192.png','./procoach-assistant-512.png','./procoach-athlete-192.png','./procoach-athlete-512.png'];
 self.addEventListener('install',e=>e.waitUntil(caches.open(CACHE_NAME).then(c=>c.addAll(APP_SHELL)).then(()=>self.skipWaiting())));
 self.addEventListener('activate',e=>e.waitUntil(caches.keys().then(keys=>Promise.all(keys.filter(k=>k!==CACHE_NAME).map(k=>caches.delete(k)))).then(()=>self.clients.claim())));
 self.addEventListener('fetch',event=>{if(event.request.method!=='GET')return;event.respondWith(fetch(event.request).then(r=>{if(r&&r.ok){const copy=r.clone();caches.open(CACHE_NAME).then(c=>c.put(event.request,copy))}return r}).catch(async()=>{const hit=await caches.match(event.request);if(hit)return hit;const path=new URL(event.request.url).pathname;if(path.endsWith('/auxiliar.html'))return caches.match('./auxiliar.html');if(path.endsWith('/atleta.html'))return caches.match('./atleta.html');return caches.match('./index.html')}))});
-self.addEventListener('push',event=>{let data={title:'ProCoach',body:'Você tem uma nova atualização.',url:'./',icon:'./procoach-main-icon.svg'};try{if(event.data)data={...data,...event.data.json()}}catch(e){}event.waitUntil(self.registration.showNotification(data.title||'ProCoach',{body:data.body||'',icon:data.icon||'./procoach-main-icon.svg',badge:data.icon||'./procoach-main-icon.svg',data:data.url||'./'}))});
+self.addEventListener('push',event=>{let data={title:'ProCoach',body:'Você tem uma nova atualização.',url:'./',icon:'./procoach-main-192.png'};try{if(event.data)data={...data,...event.data.json()}}catch(e){}event.waitUntil(self.registration.showNotification(data.title||'ProCoach',{body:data.body||'',icon:data.icon||'./procoach-main-192.png',badge:'./procoach-main-192.png',data:data.url||'./'}))});
 self.addEventListener('notificationclick',event=>{event.notification.close();event.waitUntil(clients.openWindow(event.notification.data||'./'))});

diff --git a/procoach-fcm-config.js b/procoach-fcm-config.js
@@ -1,3 +1,1 @@
-// Chave pública VAPID do Firebase Cloud Messaging.
-// No Firebase Console: Configurações do projeto > Cloud Messaging > Web Push certificates.
-window.PROCOACH_VAPID_KEY = '';
+window.PROCOACH_VAPID_KEY = window.PROCOACH_VAPID_KEY || '';

diff --git a/README-2.0.7.4.md b/README-2.0.7.4.md
@@ -1,0 +1,10 @@
+# ProCoach 2.0.7.4 — PWA Logos + Sync Final
+
+- Logo/ícone dedicado do ProCoach Treinador para instalação PWA.
+- Ícones dedicados do Auxiliar e Athlete (SVG + PNG 192/512).
+- Manifests reais e completos para os três apps.
+- Service worker 2074 com todos os arquivos existentes no cache.
+- Auxiliar com fila offline: alterações ficam locais e são enviadas antes da próxima leitura da nuvem.
+- Atalhos do PWA principal para Auxiliar e Athlete.
+
+Para GitHub Pages, envie todos os arquivos desta pasta para a raiz do repositório.
